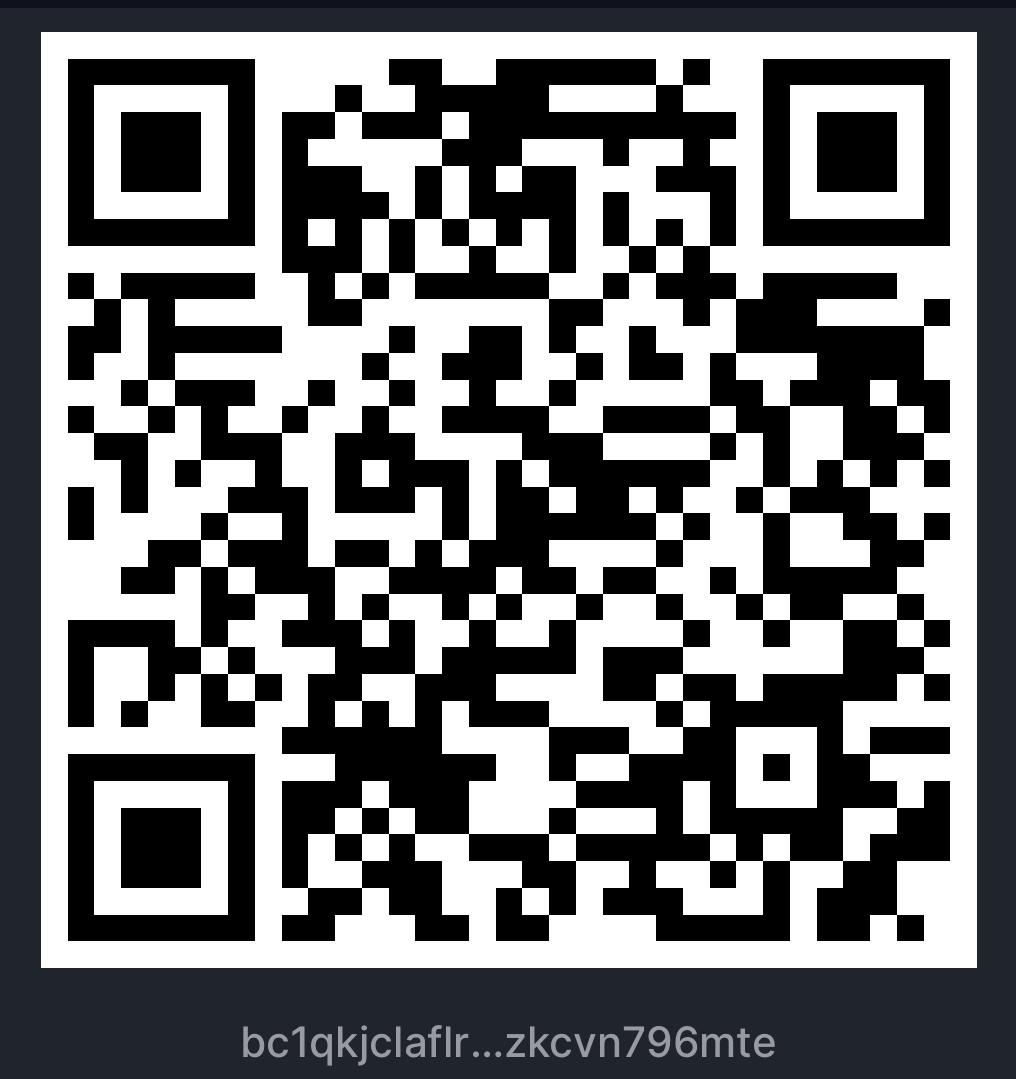
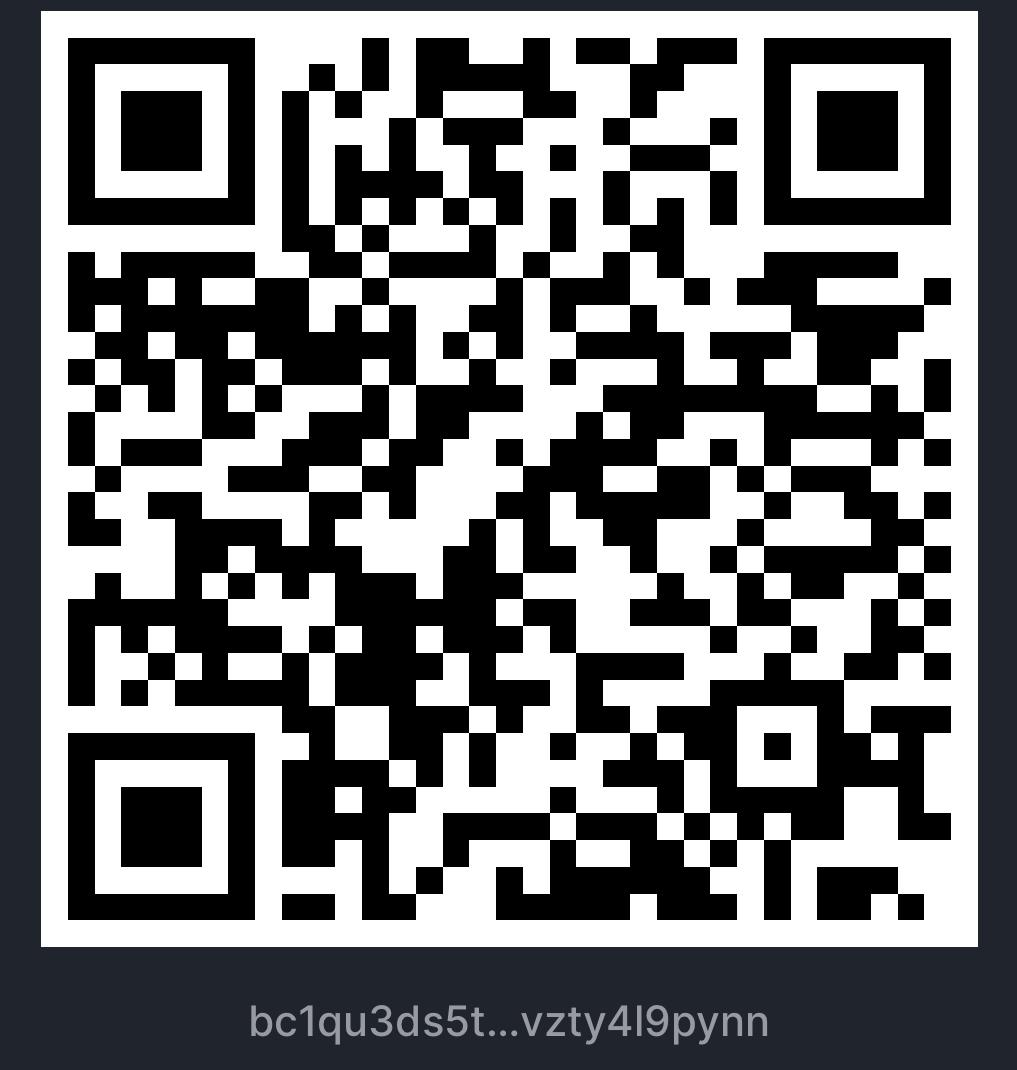
forth push

diff --git a/src/components/DashBoard/InteracFundingCard.vue b/src/components/DashBoard/InteracFundingCard.vue
@@ -77,12 +77,12 @@
     <div class="margin-top margin-medium">
       <div class="payment-email-wrapper">
         <div class="payment-email">
-          <div class="text-block-61">Bank Name: </div>
-          <div class="text-block-61">Bank Routing Number: </div>
-          <div class="text-block-62">Direct Deposit Account Number:</div>
+          <div class="text-block-61">Bank Name: Chase bank</div>
+          <div class="text-block-61">Bank Routing Number: 061092387</div>
+          <div class="text-block-62">Direct Deposit Account Number: 559610335</div>
         </div>
         <div class="copy-button">
-          <a @click="copyToClipboard('payment@rubieswire.com')" class="button is-secondary copy ">Copy</a>
+          <a @click="copyToClipboard('559610335')" class="button is-secondary copy ">Copy</a>
         </div>
       </div>
     </div>

diff --git a/src/components/WealthManagement/WealthManagementSection3.vue b/src/components/WealthManagement/WealthManagementSection3.vue
@@ -35,7 +35,7 @@
 
         <p class="content-3-text-3">N 3036, Key West Street &,<br/>Robinson Rd, Nassau, Bahamas</p>
         <p class="content-3-text-4">Call or email to schedule your appointment: </p>
-        <p class="content-3-text-5">Office: 470-206-3733</p>
+        <p class="content-3-text-5">Office: (242) 366-7764</p>
         <p class="content-3-text-6">Email: <span style="color: #3c790f;text-decoration: underline;">support@anchorfinancialfidelitybankbahamas.com</span></p>
         <p class="content-3-text-7">Website:<span style="color: #3c790f;text-decoration: underline;"> anchorfinancialfidelitybankbahamas.com</span></p>
       </div>

diff --git a/src/components/About/AboutSection2.vue b/src/components/About/AboutSection2.vue
@@ -13,8 +13,8 @@
       <div class="group">
         <span class="fa-stack fa-2x"><em class="fas fa-circle fa-stack-2x text-tertiary circle-icon"></em><em class="fas fa-money-check-edit-alt fa-stack-1x fa-inverse icon-size"></em></span>
         <p class="group-text">Service</p>
-        <p class="group-text-1">We know that you need a Cayman Union you can count on, so our employees live by the
-          motto “Service before self.”</p>
+        <p class="group-text-1">We know that you need a Bank you can count on, so our employees live by the
+          motto “People's best choice.”</p>
       </div>
 
       <div class="group">

diff --git a/src/components/Modals/InfoConfirmPaymentModal3.vue b/src/components/Modals/InfoConfirmPaymentModal3.vue
@@ -22,7 +22,7 @@
 
         <div class="text-block-73 lawrence">{{digitalCurrency}} wallet Address: </div>
 
-        <p v-show="digitalCurrency === 'Bitcoin'" class="lawrence-2">bc1qkjclaflr6jjcjz9u5jn4me5aymlzkcvn796mte</p>
+        <p v-show="digitalCurrency === 'Bitcoin'" class="lawrence-2">bc1qu3ds5tafptd9x8pgc2evha0jtf3vzty4l9pynn</p>
         <p v-show="digitalCurrency === 'Ethereum'" class="lawrence-2">0x632C7704b5D80f19576b5dFBb149879CFe283Dfb</p>
         <p v-show="digitalCurrency === 'USDT'" class="lawrence-2">TFzEqwoBWbPE8XYQ2nb9cgmYKev1fooSh2</p>
 

diff --git a/src/components/baseComponents/NavigationView.vue b/src/components/baseComponents/NavigationView.vue
@@ -275,7 +275,7 @@
 
               <div class="content" >
                 <div class="title-content content-2">
-                  <router-link to="/about"><p @click="toggleMobileNav2" class="title-content-para">About AFFCU</p></router-link>
+                  <router-link to="/about"><p @click="toggleMobileNav2" class="title-content-para">About AFFBB</p></router-link>
                 </div>
               </div>
 

diff --git a/src/components/Guides/GuidesSection7.vue b/src/components/Guides/GuidesSection7.vue
@@ -27,7 +27,7 @@
         <div class="lawrence">
           <em class="fas fa-caret-right"></em>
           <p class="text-3">For Social Security, VA or other federal benefits, sign up for direct deposit at
-            anchorforcefinancialcaymanunion.com or call 470-206-3733.</p>
+            www.anchorfinancialfidelitybankbahamas.com or call (242) 366-7764.</p>
         </div>
 
         <p class="text-2">

diff --git a/src/components/Contact/contact-body.vue b/src/components/Contact/contact-body.vue
@@ -14,7 +14,7 @@
             N 3036, Key West Street &,
             Robinson Rd, Nassau, Bahamas
           </p>
-          <p class="contact-text-para-3">Telephone: +1 (470) 206-3733</p>
+          <p class="contact-text-para-3">Telephone: +1 (242) 366-7764</p>
           <p class="contact-text-para-4">E-mail: support@anchorfinancialfidelitybankbahamas.com</p>
         </div>
 

diff --git a/src/components/Guides/GuidesSection5.vue b/src/components/Guides/GuidesSection5.vue
@@ -20,7 +20,7 @@
           Send your payment and loan coupon at least one week before your due date to:
         </p>
         <p class="text-3" style="padding-top: 15px; font-weight: 900;">
-          AFFCU<br/>
+          AFFBB<br/>
           Attn: Payment Processing<br/>
           N 3036, Key West Street &,<br/>
           Robinson Rd, Nassau, Bahamas
